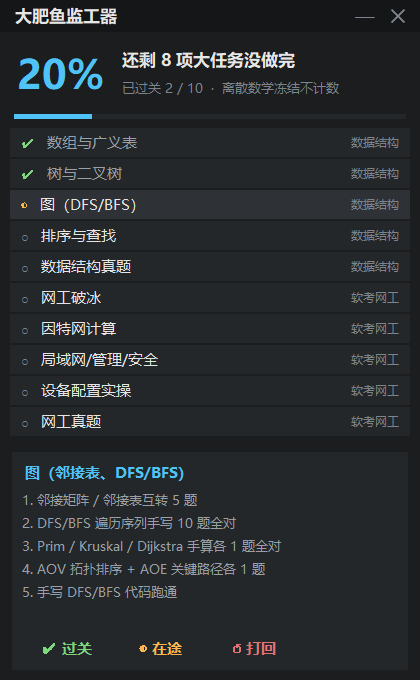
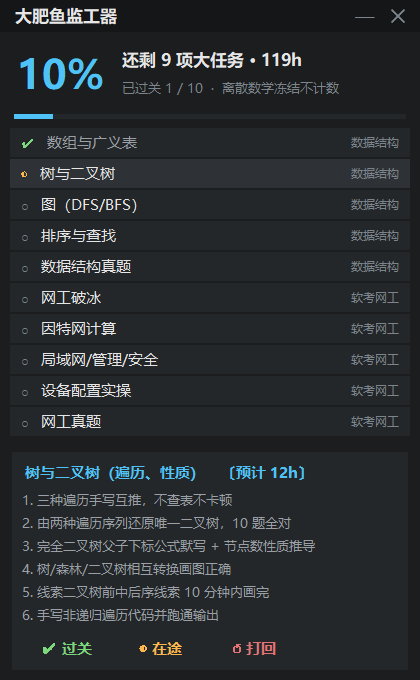
feat: v0.3 - 每项工时估算 + 剩余工时显示 + 学习排期表

diff --git a/dafeiyu.py b/dafeiyu.py
@@ -97,13 +97,21 @@ TASKS = []
 TOTAL = 0
 TASK_BY_ID = {}
 
+# 每项预计投入小时数（学 + 练 + 测）。依据：内容量 × 视频倍速 × 练习系数。
+# 改了 tasks.json 却没写 hours 时，按 id 查这张表兜底。
+HOURS = {
+    "ds1": 4, "ds2": 12, "ds3": 11, "ds4": 11, "ds5": 14,
+    "ne1": 7, "ne2": 13, "ne3": 13, "ne4": 16, "ne5": 22,
+}
+
 
 def _default_config():
     return {
         "title": "大肥鱼监工器",
         "note": "离散数学冻结不计数",
         "unit": "项大任务",
-        "tasks": [{"id": i, "module": m, "short": s, "full": f, "criteria": list(c)}
+        "tasks": [{"id": i, "module": m, "short": s, "full": f,
+                   "criteria": list(c), "hours": HOURS.get(i, 0)}
                   for i, m, s, f, c in DEFAULT_TASKS],
     }
 
@@ -133,8 +141,12 @@ def load_config():
             continue
         tid = str(t.get("id") or f"task{n}")
         short = t.get("short") or t.get("full") or tid
+        try:
+            hours = float(t.get("hours") if t.get("hours") is not None else HOURS.get(tid, 0))
+        except (TypeError, ValueError):
+            hours = float(HOURS.get(tid, 0))
         tasks.append((tid, t.get("module") or "", short, t.get("full") or short,
-                      [str(c) for c in (t.get("criteria") or [])]))
+                      [str(c) for c in (t.get("criteria") or [])], hours))
     if not tasks:                      # 全是不合法条目时仍给一份可用的
         raw = _default_config()
         tasks = [(i, m, s, f, list(c)) for i, m, s, f, c in DEFAULT_TASKS]
@@ -285,7 +297,7 @@ class DaFeiYu:
                           lambda e: self.listbox.itemconfigure(self._inner, width=e.width))
 
         self.rows = {}
-        for tid, mod, short, _, _ in TASKS:
+        for tid, mod, short, _, _, _h in TASKS:
             row = tk.Frame(inner, bg=CARD, cursor="hand2")
             row.pack(fill="x", pady=1)
             dot = tk.Label(row, text="○", bg=CARD, fg=MUTED, font=(FONT, 8))
@@ -354,12 +366,14 @@ class DaFeiYu:
 
     def _refresh(self):
         done = sum(1 for v in self.state.values() if v["state"] == "done")
+        remain_h = sum(h for tid, _, _, _, _, h in TASKS
+                       if self.state[tid]["state"] != "done")
         self.pct.config(text=f"{done * 100 // max(TOTAL, 1)}%")
-        self.left_label.config(text=f"还剩 {TOTAL - done} {UNIT}没做完")
+        self.left_label.config(text=f"还剩 {TOTAL - done} {UNIT} · {remain_h:g}h")
         self.sub_label.config(text=f"已过关 {done} / {TOTAL}" + (f"  ·  {NOTE}" if NOTE else ""))
         self._draw_bar()
 
-        for tid, _, short, _, _ in TASKS:
+        for tid, _, short, _, _, _h in TASKS:
             row, dot, name, tag = self.rows[tid]
             st = self.state[tid]["state"]
             color = {"done": OK, "doing": DOING, "todo": MUTED}[st]
@@ -370,8 +384,8 @@ class DaFeiYu:
             dot.config(text=mark, fg=color)
             name.config(fg=DIM if st == "done" else FG)
 
-        *_, full, crit = TASK_BY_ID[self.selected]
-        self.detail_title.config(text=full)
+        _, _, _, full, crit, hours = TASK_BY_ID[self.selected]
+        self.detail_title.config(text=f"{full}    〔预计 {hours:g}h〕")
         self.detail_text.config(state="normal")
         self.detail_text.delete("1.0", "end")
         self.detail_text.insert("end", "\n".join(f"{i}. {c}" for i, c in enumerate(crit, 1))

diff --git a/shot3.py b/shot3.py
@@ -1,0 +1,15 @@
+import ctypes
+ctypes.windll.shcore.SetProcessDpiAwareness(2)
+import json, pathlib
+sf = pathlib.Path("dafeiyu_state.json")
+sf.write_text(json.dumps({"tasks": {"ds1": {"state": "done", "ts": "x"}, "ds2": {"state": "doing", "ts": "x"}}}, ensure_ascii=False), encoding="utf-8")
+import tkinter as tk, PIL.ImageGrab, dafeiyu
+dafeiyu.load_config()
+root = tk.Tk(); app = dafeiyu.DaFeiYu(root); app._refresh()
+def shot():
+    root.update(); root.lift(); app._draw_bar()
+    x,y,w,h = root.winfo_x(), root.winfo_y(), root.winfo_width(), root.winfo_height()
+    PIL.ImageGrab.grab(bbox=(x,y,x+w,y+h)).save("docs/preview.png")
+    print("left:", app.left_label.cget("text"), "| sub:", app.sub_label.cget("text"), "| detail:", app.detail_title.cget("text"))
+    root.destroy()
+root.after(1200, shot); root.mainloop()

diff --git a/plan/学习排期表.md b/plan/学习排期表.md
@@ -1,0 +1,98 @@
+# 学习排期表 · 三科考试
+
+基准日：**2026-11-01**。总工作量：**123 小时**（应留 15% 缓冲，实际按 **141 小时** 排）。
+
+模块三（离散数学）冻结，不计入。若启用，另加 28 小时 ≈ 2.5 周。
+
+---
+
+## 一、工时明细与依据
+
+每项的工时 = 学段 + 练段 + 测段。算法：内容页数/视频时长 × 你的倍速 × 练习系数（练段约为学段的 1.2—1.5 倍）。
+
+| 项 | 内容 | 学 | 练 | 测 | 合计 |
+|---|---|---|---|---|---|
+| ds1 | 数组与广义表（重建） | 1.5 | 2 | 0.5 | **4h** |
+| ds2 | 树与二叉树 | 5 | 5.5 | 1.5 | **12h** |
+| ds3 | 图 | 4.5 | 5 | 1.5 | **11h** |
+| ds4 | 排序与查找 | 3.5 | 6 | 1.5 | **11h** |
+| ds5 | 数据结构真题 | 0 | 12 | 2 | **14h** |
+| ne1 | 网工破冰（0/1/3 章） | 5 | 2 | 0 | **7h** |
+| ne2 | 第 6 章 因特网（重点） | 5.5 | 6 | 1.5 | **13h** |
+| ne3 | 第 4/7/8 章 理论 | 6.5 | 5 | 1.5 | **13h** |
+| ne4 | 第 9-10 章 设备配置 | 4.5 | 9 | 2.5 | **16h** |
+| ne5 | 网工真题（上午+案例） | 0 | 18 | 4 | **22h** |
+| | **合计** | | | | **123h** |
+
+**几个必须知道的事实：**
+
+- **ds4 的练比学多一倍**（3.5h 学 vs 6h 练）。六种排序手写代码，光看不会写。
+- **ne4 是最大单项风险**（16h，练 9h）。模拟器敲命令没捷径，看不等于会敲。
+- **ne5 是工时最大的一项**（22h），其中真题练习 18h。**这项绝不能压到最后一周**——它本身就是一项独立的大工程。
+- **ds5 + ne5 合计 36h，占总工时 29%。** 真题不是复习，是学习形式。
+
+## 二、三个强度档位
+
+| 你的投入 | 每周 | 需要 | 完成日 |
+|---|---|---|---|
+| 每天 1 小时 | 6h | 23.5 周 | 2027-04-11 |
+| **每天 2 小时（基准）** | **12h** | **12 周** | **2027-01-23** |
+| 每天 3 小时 | 18h | 8 周 | 2026-12-26 |
+
+课程已经报了、钱已经花了。**每天 2 小时是这条线的下限**，低于它，11 周之后你会在同样的地方。
+
+## 三、周计划（基准档：每天 2h × 每周 6 天）
+
+| 周 | 日期 | 任务 | 工时 |
+|---|---|---|---|
+| 1 | 11/01–11/07 | ds1 收尾 4h + ds2 起步 8h | 12h |
+| 2 | 11/08–11/14 | ds2 收尾 4h + ds3 起步 8h | 12h |
+| 3 | 11/15–11/21 | ds3 收尾 3h + ds4 起步 9h | 12h |
+| 4 | 11/22–11/28 | ds4 收尾 2h + ds5 真题 10h | 12h |
+| 5 | 11/29–12/05 | ds5 收尾 4h + ne1 7h + ne2 起步 1h | 12h |
+| 6 | 12/06–12/12 | ne2 因特网计算 12h | 12h |
+| 7 | 12/13–12/19 | ne3 理论 12h | 12h |
+| 8 | 12/20–12/26 | ne4 设备配置 12h | 12h |
+| 9 | 12/27–01/02 | ne4 收尾 4h + ne5 真题起步 8h | 12h |
+| 10 | 01/03–01/09 | ne5 真题 12h | 12h |
+| 11 | 01/10–01/16 | ne5 收尾 2h + 错题回炉 10h | 12h |
+| 12 | 01/17–01/23 | **缓冲周**（专门处理拖期，不许拿来提前学新内容） | 12h |
+
+**第 12 周是缓冲，不是可选项。** 每个计划都会延期，把缓冲写进表里的人才能按期完成。
+
+## 四、里程碑检查点
+
+每过一站，做这三件事：**限时测 → 记分 → 不达标就回退上一项**。
+
+| 检查点 | 日期 | 必须达到 |
+|---|---|---|
+| M1 | 11/07 | 模块一前两项全过关，DS-1 卷 ≥90 |
+| M2 | 11/21 | 树、图全过关，能不看书画出遍历和最短路径 |
+| M3 | 11/28 | 数据结构四项全过关（仅剩真题） |
+| M4 | 12/05 | 数据结构全清，网工开始 |
+| M5 | 12/12 | 子网划分 10 题全对（这是网工的死穴） |
+| M6 | 12/19 | 理论章默写达标 |
+| M7 | 12/26 | 模拟器能不看教程重搭 3 个拓扑 |
+| M8 | 01/16 | 真题阶段收尾，全池只剩收尾项 |
+| M9 | 01/23 | **10 项全清** |
+
+**M5 是全线最危险的一站。** 子网划分算不对，第 6 章等于没学，后面的路由、防火墙全是空中楼阁。这一站不过，后面的周计划全部作废重排。
+
+## 五、考试日怎么对齐
+
+- **软考网工**：一年两次，上半年约 5 月下旬。按上表 1 月 23 日完成，到考期还有约 4 个月余量——足够刷第二遍真题，但**别把课程拖到 4 月才开始**，那样真题根本刷不完。
+- **自考科目**：具体考期以你报名的为准。**把你的考期告诉我，我按倒排重算这张表**，因为自考是一科一科考，考期决定的是"哪一项必须提前到这次"。
+
+如果两个考期撞在一起，这份表要重排优先级：先保网工（一次不过重考等半年），自考可以分次考。
+
+## 六、这份估算怎么复核
+
+不想信我的数字，就用这个公式自己算：
+
+```
+单项工时 = 内容总量 ÷ 你的实际速度 × 练习系数(1.2~1.5) + 测试 1~2h
+```
+
+**实际速度要自己测一次。** 比如：拿「第 6 章因特网」的一节录播，计时看完，记下「分钟/节」，再乘总节数。这一步 20 分钟，能让整张表从"我的猜测"变成"你的数据"。
+
+测出来的数跟我估的差 50% 以上，告诉我，我重排。

diff --git a/README.md b/README.md
@@ -83,13 +83,14 @@ python dafeiyu.py
   "unit": "项大任务",
   "tasks": [
     { "id": "ds1", "module": "数据结构", "short": "数组与广义表",
-      "full": "数组与广义表 · 重建",
+      "full": "数组与广义表 · 重建", "hours": 4,
       "criteria": ["验收标准一", "验收标准二"] }
   ]
 }
 ```
 
 - 只认 `tasks` 数组，**几项都行**：进度分母自动等于任务数，3 项、30 项都能跑
+- `hours` 是该任务的预计投入工时，程序用它算「还剩多少小时」；不填按内置表兜底，再没有就记 0
 - 字段全部可选：缺 `short` 回退 `full`，缺 `criteria` 会在详情区提示你补
 - 换监督对象不需要改代码：把 `title` 改成「健身监督器」、`unit` 改成「项训练」，就是另一个监工
 - `tasks.json` 损坏或缺失时会自动回退内置的示例任务池，程序不会起不来
@@ -118,6 +119,23 @@ python dafeiyu.py
 
 模板里有填空区、三态规则、防糊弄清单，以及「我还在学习阶段」这类拖延该怎么处理（答案：给 48 小时时间盒，到期自动进考场，不许顺延）。
 
+## 工时估算与排期
+
+进度条只回答「做了几项」，不回答「还要多久」。所以每一项都带 `hours`，窗口里两处会用到它：
+
+- 顶部：`还剩 9 项大任务 · 119h` —— 剩余工时是**未过关项**的小时数之和，打回一项就涨回去
+- 详情区：`树与二叉树（遍历、性质） 〔预计 12h〕`
+
+工时怎么估出来的、周计划怎么排、里程碑在哪几个日期，见 [学习排期表](plan/学习排期表.md)：总账 123 小时，按每天 2 小时排 12 周，含一站最容易失守的检查点（子网划分，M5）。
+
+**估算方法是可以复核的：**
+
+```
+单项工时 = 内容总量 ÷ 你的实际速度 × 练习系数(1.2~1.5) + 测试 1~2h
+```
+
+「实际速度」要自己测一次——拿一节录播计时看完，记下分钟数，再乘总节数。这一步 20 分钟，能让整张表从猜测变成你的真实数据。
+
 ## 文件结构
 
 ```
@@ -127,6 +145,7 @@ tasks.json                   你的任务池（首次运行自动生成，不进
 tasks.template.json          任务池骨架
 tasks.example.json           三科完整示例
 dafeiyu_state.json           你的进度账本（不进版本库）
+plan/                        学习排期表：工时估算、周计划、里程碑
 exams/                       配套试卷与判分细则（示例）
 prompts/
   supervisor-template.md     通用监督人格模板
